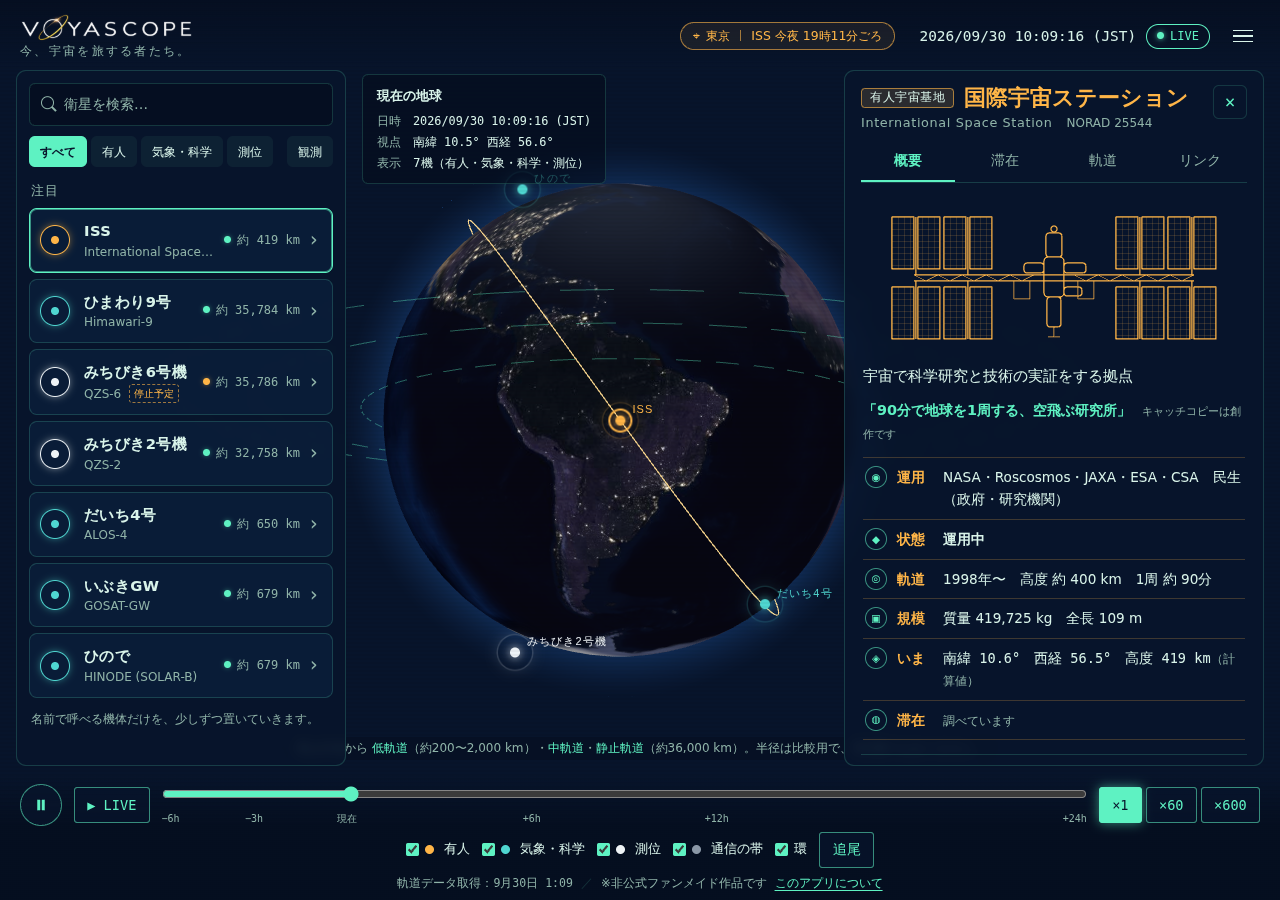
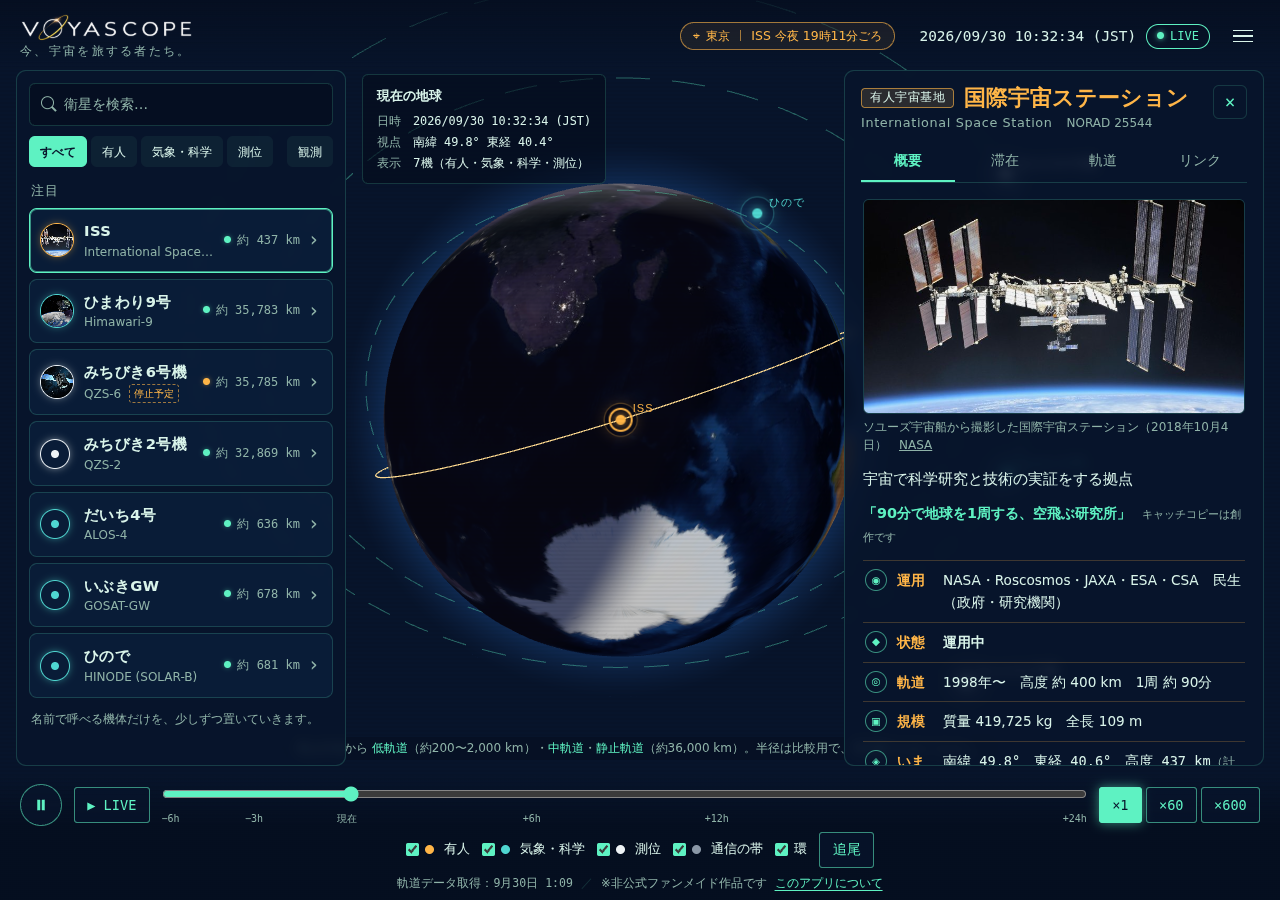
機体の画像を公式のものに（出典つき）：ISS・ひまわり9号・みちびき6号機
- オーナー方針：出典を書けば使える公式画像は使う
- 各機関の利用条件を確認（docs/design/image-terms.md）
  - NASA・気象庁・内閣府（みちびき）：出典の記載で利用できる → 使う
  - JAXA：事前の許可なしの利用は報道・学校教育・私的利用などに限られる → 使わない
- スキーマ：機体カードに image（file・source・credit・caption・terms）を追加
- 画面：詳細パネルの冒頭に画像とクレジット、一覧に小さな画像、「このアプリについて」にクレジット一覧
- ISS の線画（iss.svg）は写真に置き換えたので削除
- フォロー（☆）と「環境データ」は作らない（オーナー決定）をロードマップに記録

Claude-Session: https://claude.ai/code/session_01He99iNueyX7J3aQgv5K8rT

diff --git a/web/js/main.js b/web/js/main.js
@@ -1,6 +1,6 @@
 // VOYASCOPE：地球＋環＋注目の機体＋詳細パネル＋タイムライン
 import { satrecFromOrbit, positionAt, periodMinutes, groundTrack, SimClock } from "./orbit.js";
-import { renderPanel, updatePanelLive } from "./card.js";
+import { renderPanel, updatePanelLive, imageCredit } from "./card.js";
 import { summarizeStatus } from "./status.js";
 import { landPath, renderMinimap } from "./minimap.js";
 import { setupEarth } from "./earth.js";
@@ -257,7 +257,11 @@ function startApp({ craft, land, prefectures }) {
     listEl.innerHTML = shown
       .map(
         (c) => `<li><button type="button" class="craft-item" data-id="${c.id}" aria-current="${c === selected}">
-          <span class="craft-icon" style="--c:${c.family.color}" aria-hidden="true"></span>
+          ${
+            c.card.image
+              ? `<span class="craft-thumb" style="--c:${c.family.color}" aria-hidden="true"><img src="${esc(c.card.image.file)}" alt="" loading="lazy"></span>`
+              : `<span class="craft-icon" style="--c:${c.family.color}" aria-hidden="true"></span>`
+          }
           <span class="craft-names"><span class="craft-id">${esc(shortName(c))}</span><span class="craft-ja">${esc(c.card.name.en)}${statusBadge(c)}</span></span>
           <span class="craft-alt mono"><span class="st-pip ${statusPip(c)}" aria-hidden="true"></span><span data-alt="${c.id}">--</span></span>
           <span class="chev" aria-hidden="true">›</span>
@@ -480,6 +484,11 @@ function startApp({ craft, land, prefectures }) {
   });
   $("#about-open").addEventListener("click", () => about.showModal());
   $("#menu-open").addEventListener("click", () => about.showModal());
+  // 機体の画像の出典（利用条件どおりのクレジット）
+  $("#about-images").innerHTML = craft
+    .filter((c) => c.card.image)
+    .map((c) => `<li>${esc(c.card.name.ja)}：${imageCredit(c.card.image)}</li>`)
+    .join("");
 
   // ---------- 毎フレームの更新 ----------
   const els = { time: $("#sim-time"), badge: $("#live-badge"), warning: $("#tle-warning") };

diff --git a/web/js/card.js b/web/js/card.js
@@ -34,8 +34,9 @@ const OPERATOR_TYPE_LABELS = {
   mixed: "混合",
 };
 
-// 機体の線画（web/assets/craft/<id>.svg）。ないときは出さない
-const CRAFT_ART = { iss: "assets/craft/iss.svg" };
+// 機体の画像（カードの image。公式の画像を出典・クレジットつきで）
+export const imageCredit = (img) =>
+  `${esc(img.caption)}　<a href="${esc(img.source)}" target="_blank" rel="noopener noreferrer">${esc(img.credit)}</a>`;
 
 export const TABS = [
   { id: "overview", label: "概要" },
@@ -176,7 +177,11 @@ function overviewHtml(card, aboard, family, statusSum) {
   const st = statusRows(statusSum);
   return `
     <div class="ov">
-      ${CRAFT_ART[card.id] ? `<img class="ov-art" src="${CRAFT_ART[card.id]}" alt="">` : ""}
+      ${
+        card.image
+          ? `<figure class="ov-figure"><img class="ov-art" src="${esc(card.image.file)}" alt="${esc(card.image.caption)}"><figcaption class="k small">${imageCredit(card.image)}</figcaption></figure>`
+          : ""
+      }
       ${card.mission && !card.mission.undisclosed ? `<p class="ov-lead">${factText(card.mission)}</p>` : `<p class="ov-lead k">任務は公表されていません。</p>`}
       ${
         card.catchphrase

diff --git a/web/css/style.css b/web/css/style.css
@@ -487,7 +487,19 @@ body { overflow: hidden; }
 
 /* 銘板（概要タブ） */
 .ov { padding: 4px 2px 0; }
-.ov-art { display: block; width: 100%; max-height: 150px; object-fit: contain; margin: 4px 0 10px; }
+.ov-figure { margin: 0 0 12px; }
+.ov-art { display: block; width: 100%; aspect-ratio: 16 / 9; object-fit: cover; border-radius: 6px; border: 1px solid var(--panel-border); }
+.ov-figure figcaption { margin-top: 4px; line-height: 1.5; }
+.ov-figure figcaption a { color: var(--text-dim); }
+.craft-thumb {
+  width: 34px;
+  height: 34px;
+  border-radius: 50%;
+  overflow: hidden;
+  border: 1.5px solid var(--c);
+  box-shadow: 0 0 8px color-mix(in srgb, var(--c) 40%, transparent);
+}
+.craft-thumb img { width: 100%; height: 100%; object-fit: cover; }
 .ov-lead { margin: 0 0 10px !important; font-size: 0.95rem; line-height: 1.75; color: var(--text); }
 .ov-catch { margin: 0 0 10px !important; color: var(--mint); font-size: 0.9rem; font-weight: 700; }
 .ov-catch .k { font-weight: 400; font-size: 0.66rem; }

diff --git a/web/index.html b/web/index.html
@@ -147,6 +147,8 @@
         <li>地球の画像：NASA Blue Marble（昼）・Black Marble（夜の明かり）。昼と夜の境目は、観測時刻の太陽の位置から計算しています</li>
         <li>陸地の形：Natural Earth（パブリックドメイン）／world-atlas（ISC License）</li>
       </ul>
+      <h3>機体の画像</h3>
+      <ul class="small" id="about-images"></ul>
       <p class="small">軌道データや画像などの権利は、それぞれの提供元にあります。</p>
     </div>
   </dialog>

diff --git a/docs/design/image-terms.md b/docs/design/image-terms.md
@@ -1,0 +1,25 @@
+# 機体の画像：利用条件の確認（2026-09-30）
+
+オーナー方針（2026-09-30）：**出典を書けば使える公式画像は使う。** 条件がそれより厳しいもの（事前の許可が要るなど）は使わない。
+
+| 機関 | 条件（要点） | 確認したページ | 判断 |
+|---|---|---|---|
+| NASA | 画像は米国では原則として著作権の対象外。教育・情報目的の Web ページで使ってよい。NASA を出典として示し、NASA が推薦しているように見せないこと | https://www.nasa.gov/nasa-brand-center/images-and-media/ | ✅ 使う |
+| 気象庁 | 公共データ利用規約（第1.0版）に準拠。出典の記載で利用できる。ひまわりのイラストは「気象庁提供」と記載するよう、掲載ページに書かれている | https://www.jma.go.jp/jma/kishou/info/coment.html ／ https://www.data.jma.go.jp/sat_info/himawari/satellite.html | ✅ 使う |
+| 内閣府（みちびき） | みちびきウェブサイト利用規約（政府標準利用規約準拠）。画像は「提供：内閣府宇宙開発戦略推進事務局」などの出典記載で利用できる。第三者の権利がある画像は除く（例：「提供：三菱電機株式会社」と書かれた図） | https://qzss.go.jp/policy/rule.html | ✅ 使う（第三者の提供表示がない画像だけ） |
+| JAXA（宇宙研を含む） | 「JAXAの事前の許可なく、これらの情報を利用（複製、改変、配布、公衆送信等を含む）することはお断りします」。許可なしで使えるのは報道・公的機関の学術研究や学校教育・科学館・私的利用など | https://www.jaxa.jp/policy_j.html | ❌ 使わない（出典記載だけでは足りない）。使うなら JAXA デジタルアーカイブスから申請が必要 |
+
+## 入れた画像
+
+| 機体 | 画像 | 出典 | クレジット |
+|---|---|---|---|
+| 国際宇宙ステーション | ソユーズから撮影した ISS（iss056e201248、2018-10-04） | https://images.nasa.gov/details/iss056e201248 | NASA |
+| ひまわり9号 | ひまわり8号・9号のイラスト（2機は同じ形） | https://www.data.jma.go.jp/sat_info/himawari/satellite.html | 気象庁提供 |
+| みちびき6号機 | みちびき6号機のイメージ（ページ冒頭の画像。第三者の提供表示なし） | https://qzss.go.jp/7satellite-constellation/qzs-6/outline.html | 提供：内閣府宇宙開発戦略推進事務局 |
+
+## 入れなかった画像
+
+- だいち4号・いぶきGW・ひので：JAXA の画像は事前の許可が要るため
+- みちびき2号機：公式サイトにあるのは説明の文字と写真が入った構成図だけで、カードの画像に向かないため
+
+画像は 720px に縮めて `web/assets/craft/` に置き、カードの `image`（file・source・credit・caption・terms）に出典を持たせた。画面では画像の下と「このアプリについて」にクレジットを出す。

diff --git a/docs/design/target-gap.md b/docs/design/target-gap.md
@@ -41,3 +41,9 @@
 | 名前の確認 | C6 未依頼 | 公開前に必須 |
 | ISS の数値・公式リンク・乗員 | C3・C4・C10 | そろわなければ「見本」の帯が出たままになる |
 | スマホでの重さ・表示 | 未 | テクスチャを入れたあとに確かめる |
+
+## 決まったこと（2026-09-30）
+
+- 機体の画像：出典を書けば使える公式画像だけ使う（[`image-terms.md`](image-terms.md)）。JAXA の画像は事前の許可が要るので使わない
+- フォロー（☆）・凡例の「環境データ」：作らない
+- 「観測」タブ：仮に「今夜の空」（ISS の見える通過）
